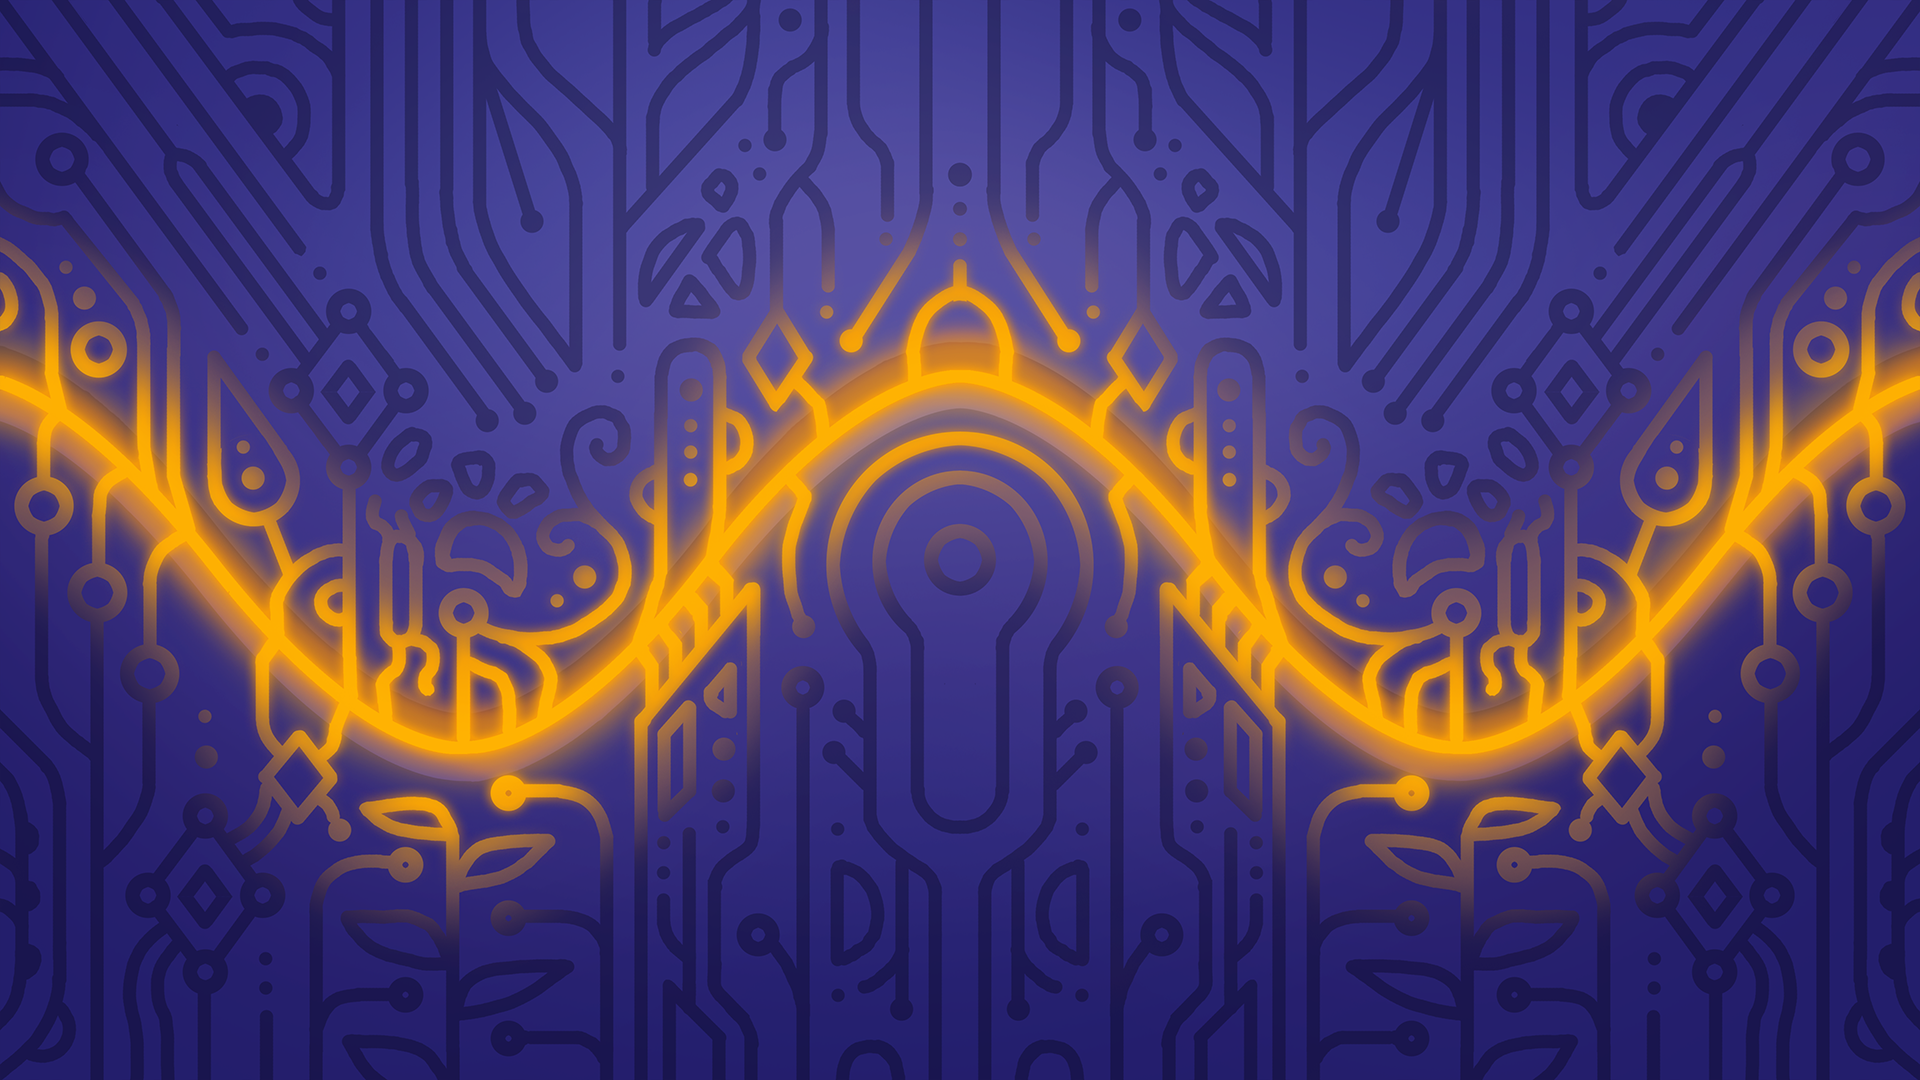
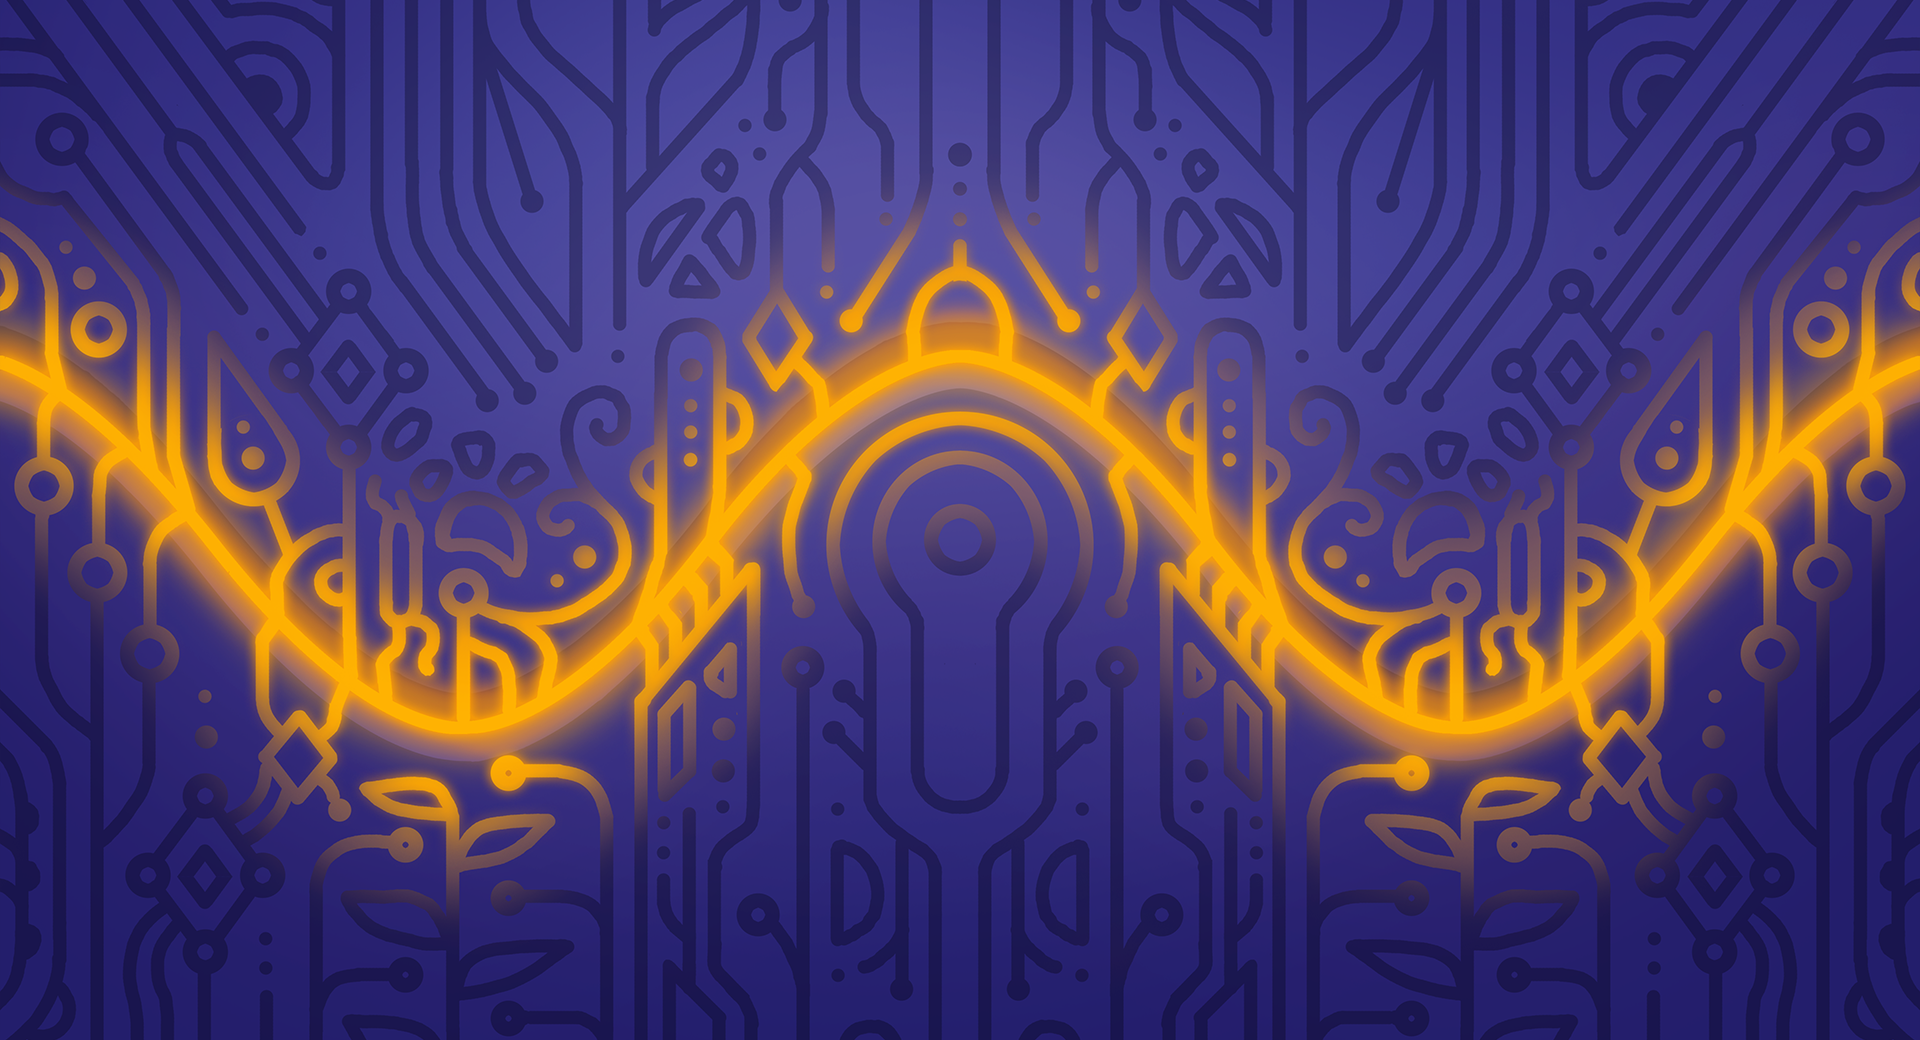
Unlock: update with new assets
These are the right size and reflect the latest design from Anita.

diff --git a/com.endlessm.HackUnlock/app/Unlock.js b/com.endlessm.HackUnlock/app/Unlock.js
@@ -111,7 +111,7 @@ function Unlock()
         //--------------------------------------
         // load background and glow images
         //--------------------------------------
-        _background.src = "images/first-screen.png";            
+        _background.src = "images/gate.png";
         _glowImage.src  = "images/glow.png";            
         
         //----------------------------
@@ -147,7 +147,7 @@ function Unlock()
         //---------------------------
         if ( globalParameters.mode == MODE_FIRST_SCREEN )
         {
-            _background.src = "images/first-screen.png";
+            _background.src = "images/gate.png";
         }
         else if ( globalParameters.mode == MODE_SOLVING_PUZZLE )
         {
@@ -165,7 +165,7 @@ function Unlock()
             if ( _successClock > SUCCESS_DURATION )
             {
                 globalParameters.unlocked = true;
-                _background.src = "images/success.png";                
+                _background.src = "images/gate.png";
                 globalParameters.mode = MODE_FINISHED;
             }
         }
